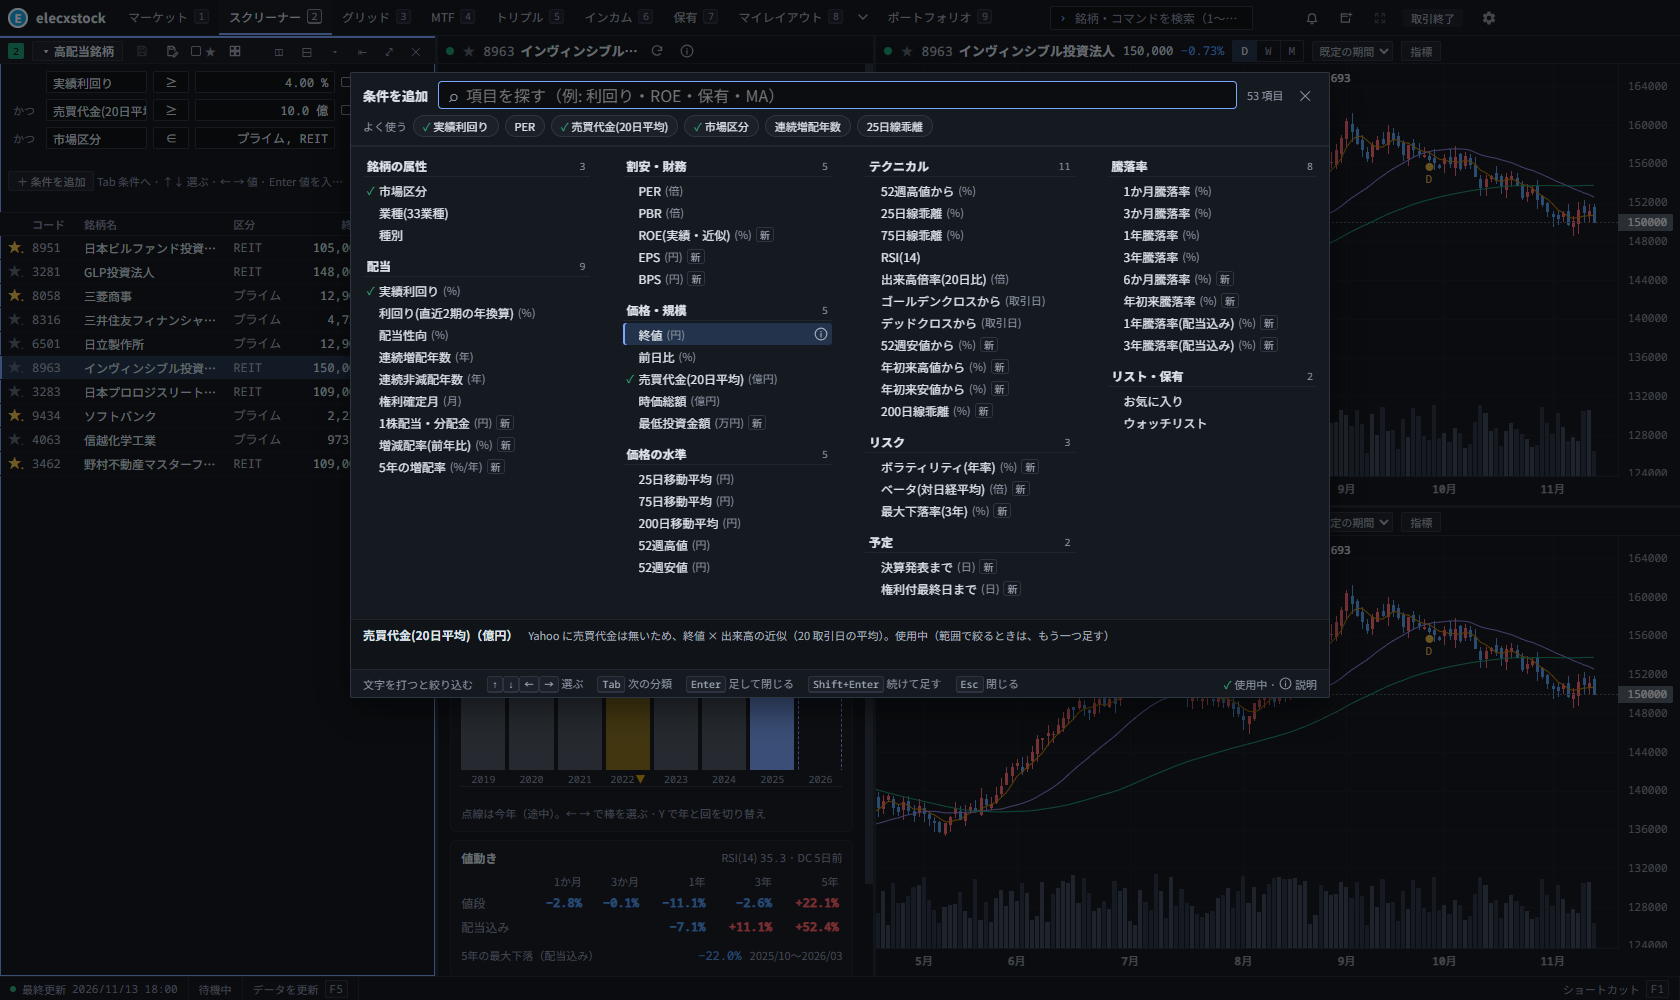
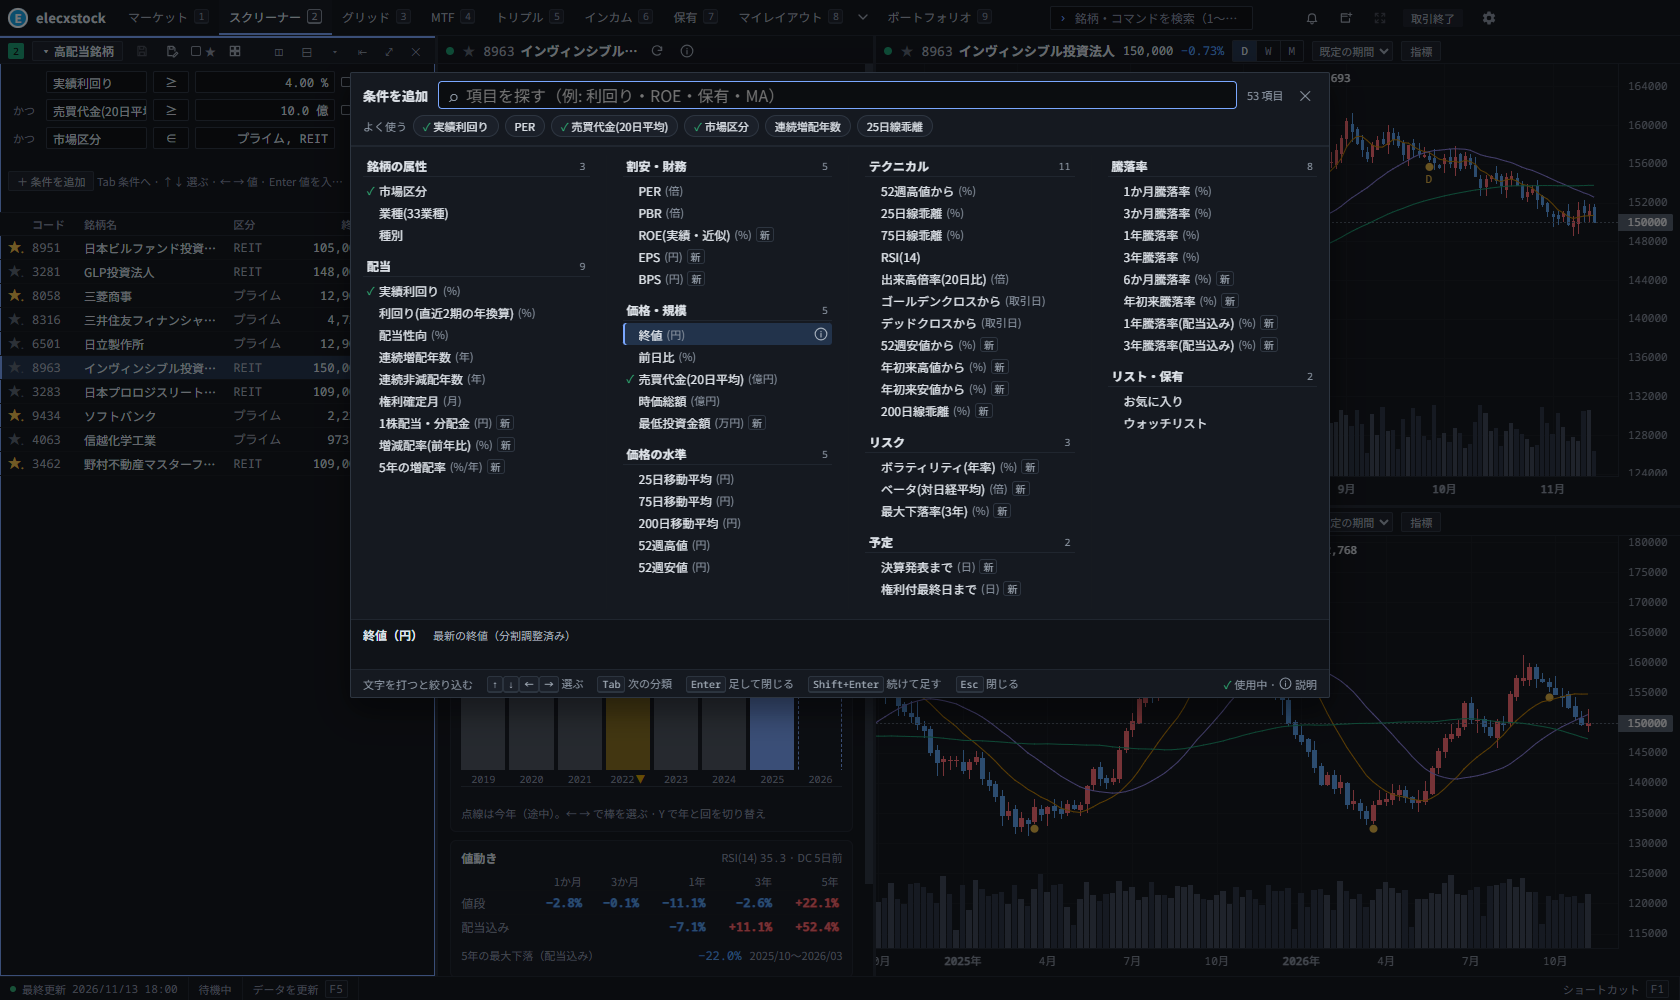
feat(layout): show a weekly chart below the daily one in the Screener tab / スクリーナーのタブの下のチャートを週足にする
Both charts were daily, so the tab showed the same chart twice. Saved layouts are unchanged; resetting the tab's layout picks up the new default.

diff --git a/tests/unit/renderer/layout.test.ts b/tests/unit/renderer/layout.test.ts
@@ -258,7 +258,7 @@ describe('フリー N（マルチモニタ）', () => {
 })
 
 describe('スクリーナーのタブの初期の並び（§6.4 Screener・FR-L5）', () => {
-  it('左から スクリーナー・銘柄情報・チャート 2 枚（上下）。すべてリンク 2', () => {
+  it('左から スクリーナー・銘柄情報・チャート 2 枚（上は日足・下は週足。同じ足を 2 枚出さない）。すべてリンク 2', () => {
     type N = { kind: string; widget?: string; dir?: string; sizes?: number[]; link?: number; state?: { tf?: string }; children?: N[] }
     const root = L.presetEntry('screener').root as N
     expect(root.dir).toBe('row')
@@ -270,7 +270,7 @@ describe('スクリーナーのタブの初期の並び（§6.4 Screener・FR-L5
     expect(charts!.sizes).toEqual([50, 50])
     expect(charts!.children!.map((c) => [c.widget, c.state?.tf])).toEqual([
       ['chart', 'D'],
-      ['chart', 'D'],
+      ['chart', 'W'],
     ])
     const panes = L.allPanes(L.presetEntry('screener'), false)
     expect(panes.every((p) => p.link === 2)).toBe(true)

diff --git a/src/renderer/stores/layout.svelte.ts b/src/renderer/stores/layout.svelte.ts
@@ -133,13 +133,13 @@ export function presetEntry(id: PresetId): LayoutEntry {
       return { root: P('grid', MAIN_LINK, { src: 'live' }), docks: { left: selectDock(MAIN_LINK, 1) } }
     case 'screener':
       // スクリーナーが主役なので、左の列はスクリーナーだけ（ウォッチリストは置かない）。結果の行を動かすと、
-      // となりの銘柄情報と右のチャート 2 枚（上下）が同じ銘柄を出す（リンク 2）
+      // となりの銘柄情報と右のチャート 2 枚（上は日足・下は週足）が同じ銘柄を出す（リンク 2）
       return {
         root: R(
           [26, 26, 48],
           P('screener', MAIN_LINK),
           P('info', MAIN_LINK),
-          C([50, 50], P('chart', MAIN_LINK, { tf: 'D' }), P('chart', MAIN_LINK, { tf: 'D' })),
+          C([50, 50], P('chart', MAIN_LINK, { tf: 'D' }), P('chart', MAIN_LINK, { tf: 'W' })),
         ),
         docks: {},
       }

diff --git a/docs/requirements.md b/docs/requirements.md
@@ -397,7 +397,7 @@ type LinkGroup = 'red' | 'green' | 'blue' | 'yellow' | 'purple'
 | キー         | 名前               | 構成                                                                                                                                                                                                                                                                                                        |
 | ------------ | ------------------ | ----------------------------------------------------------------------------------------------------------------------------------------------------------------------------------------------------------------------------------------------------------------------------------------------------------- |
 | Ctrl+Shift+1 | **Market**         | 左の列: market-board・ranking / 右の上: heatmap と、その右の列に chart（上）・breadth（下） / 右の下: market-overview（heatmap と breadth の下に広く）（リンク 1）                                                                                                                                          |
-| Ctrl+Shift+2 | **Screener**       | 左から screener だけの列（ウォッチリストは置かない） / symbol-info / chart 2 枚（上下。どちらも日足）。幅は 26 : 26 : 48、すべてリンク 2。開くと screener にフォーカス                                                                                                                                      |
+| Ctrl+Shift+2 | **Screener**       | 左から screener だけの列（ウォッチリストは置かない） / symbol-info / chart 2 枚（上は日足・下は週足）。幅は 26 : 26 : 48、すべてリンク 2。開くと screener にフォーカス                                                                                                                                      |
 | Ctrl+Shift+3 | **Grid**           | **左ドロワー（自動で隠れる）に watchlist・screener**（screener を前に）、本体は chart-grid（4×3）。左に chart + symbol-info を置かず、画面のほぼ全部をチャートに使う                                                                                                                                        |
 | Ctrl+Shift+4 | **MTF**（既定）    | 左の列: watchlist（上）・screener（下） / 右: 日足（上）と週足・月足（下）の chart 3 枚。右の上下は 1:1。すべてリンク 2                                                                                                                                                                                     |
 | Ctrl+Shift+5 | **Triple**         | 左の列: watchlist・screener / 右: 日・週・月を横 3 列 + 下に symbol-info                                                                                                                                                                                                                                    |
